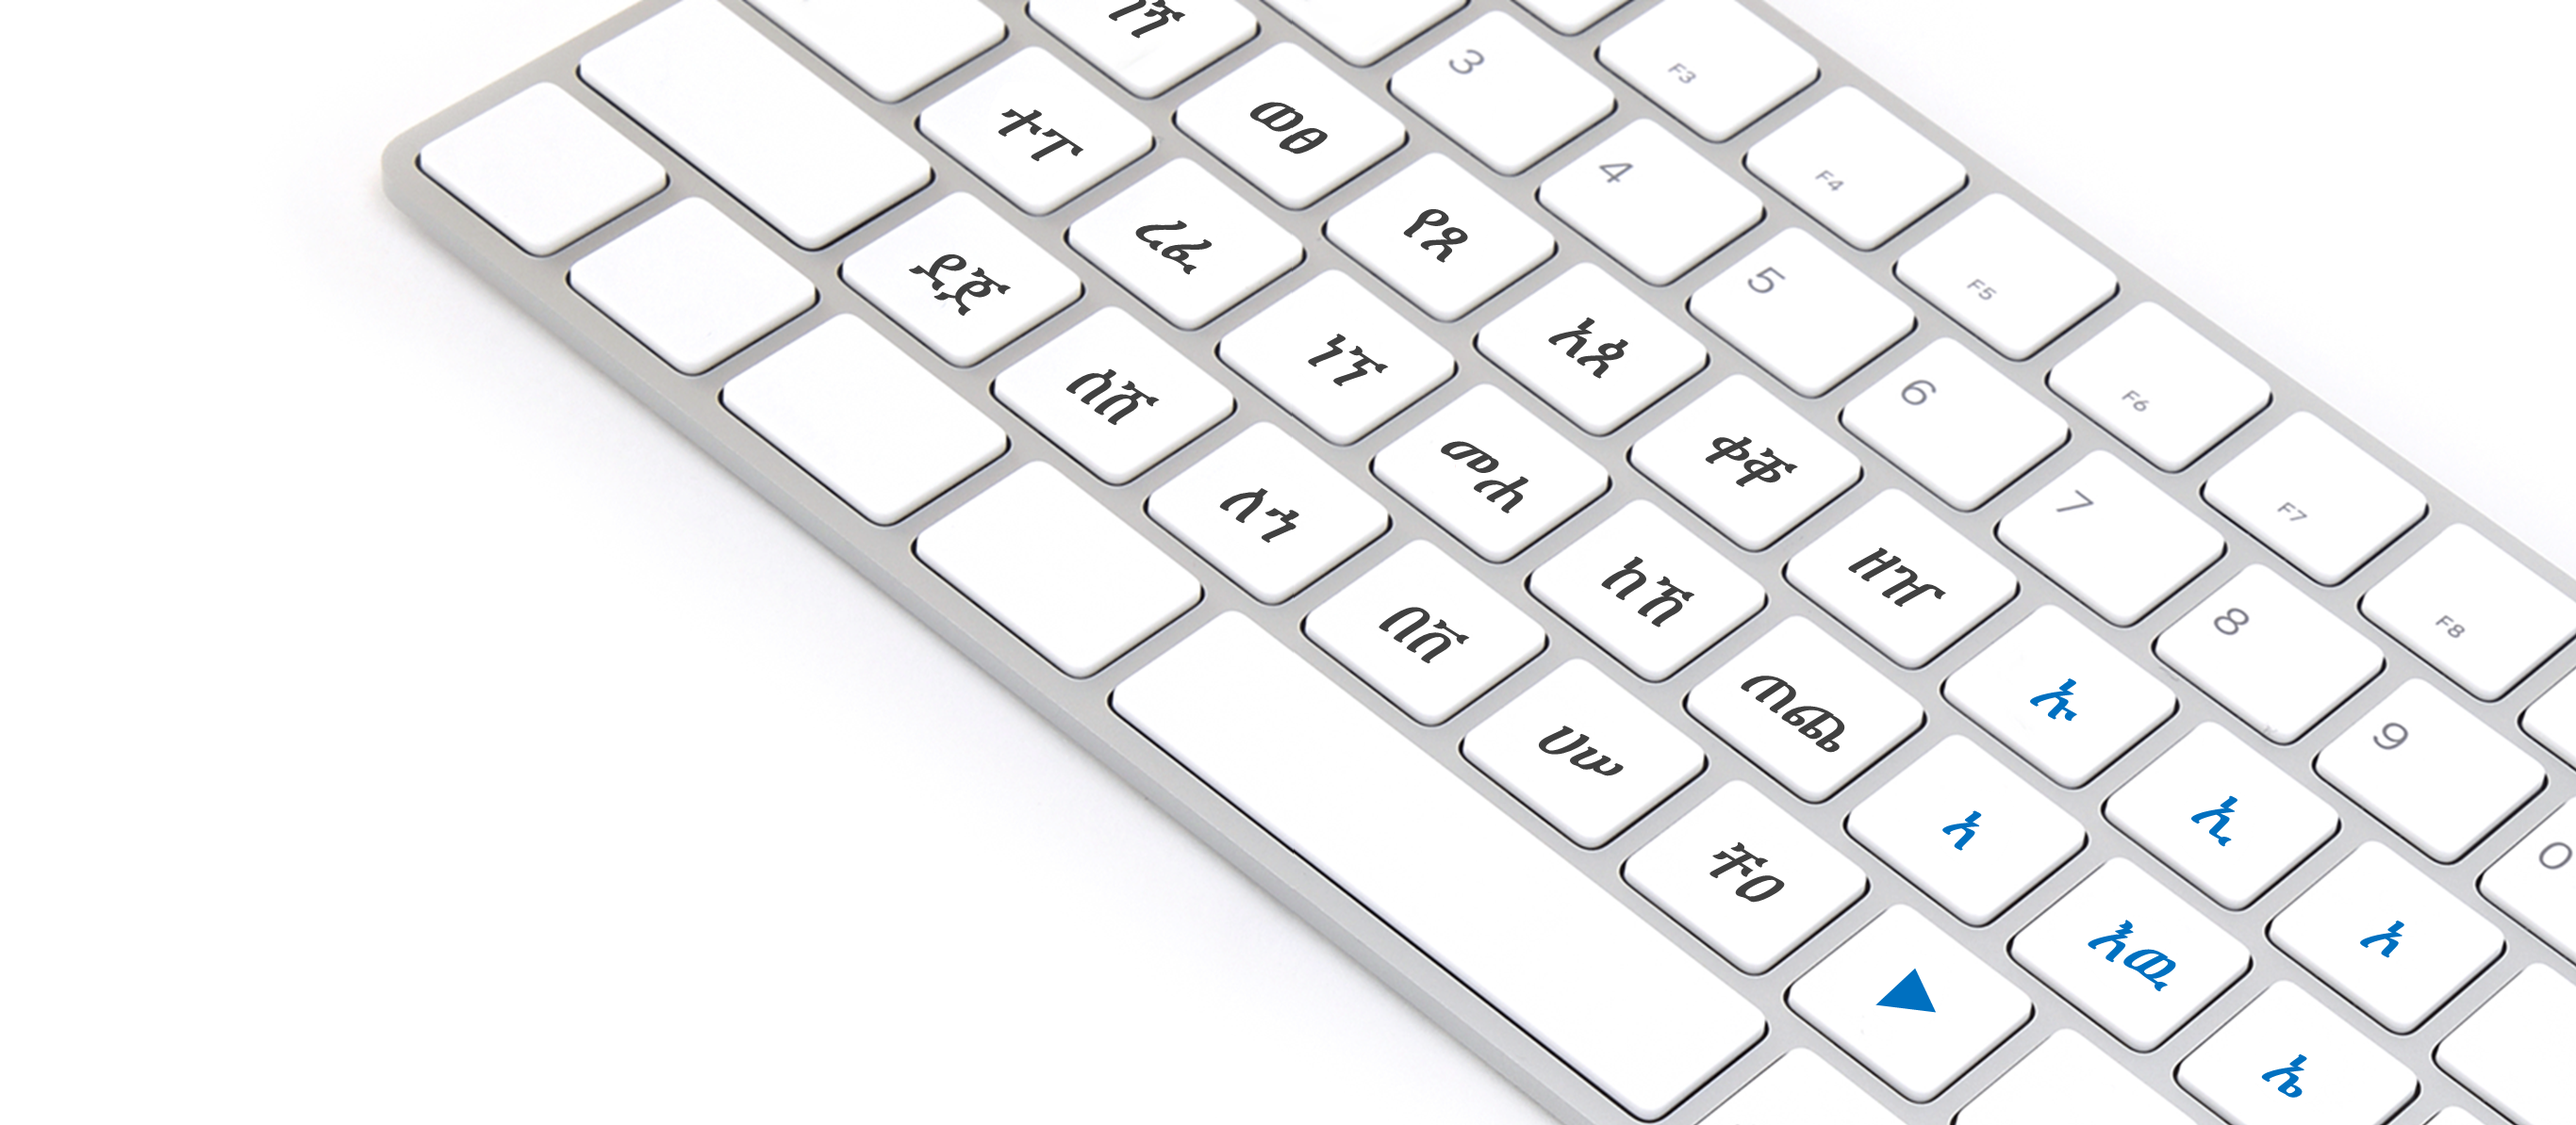
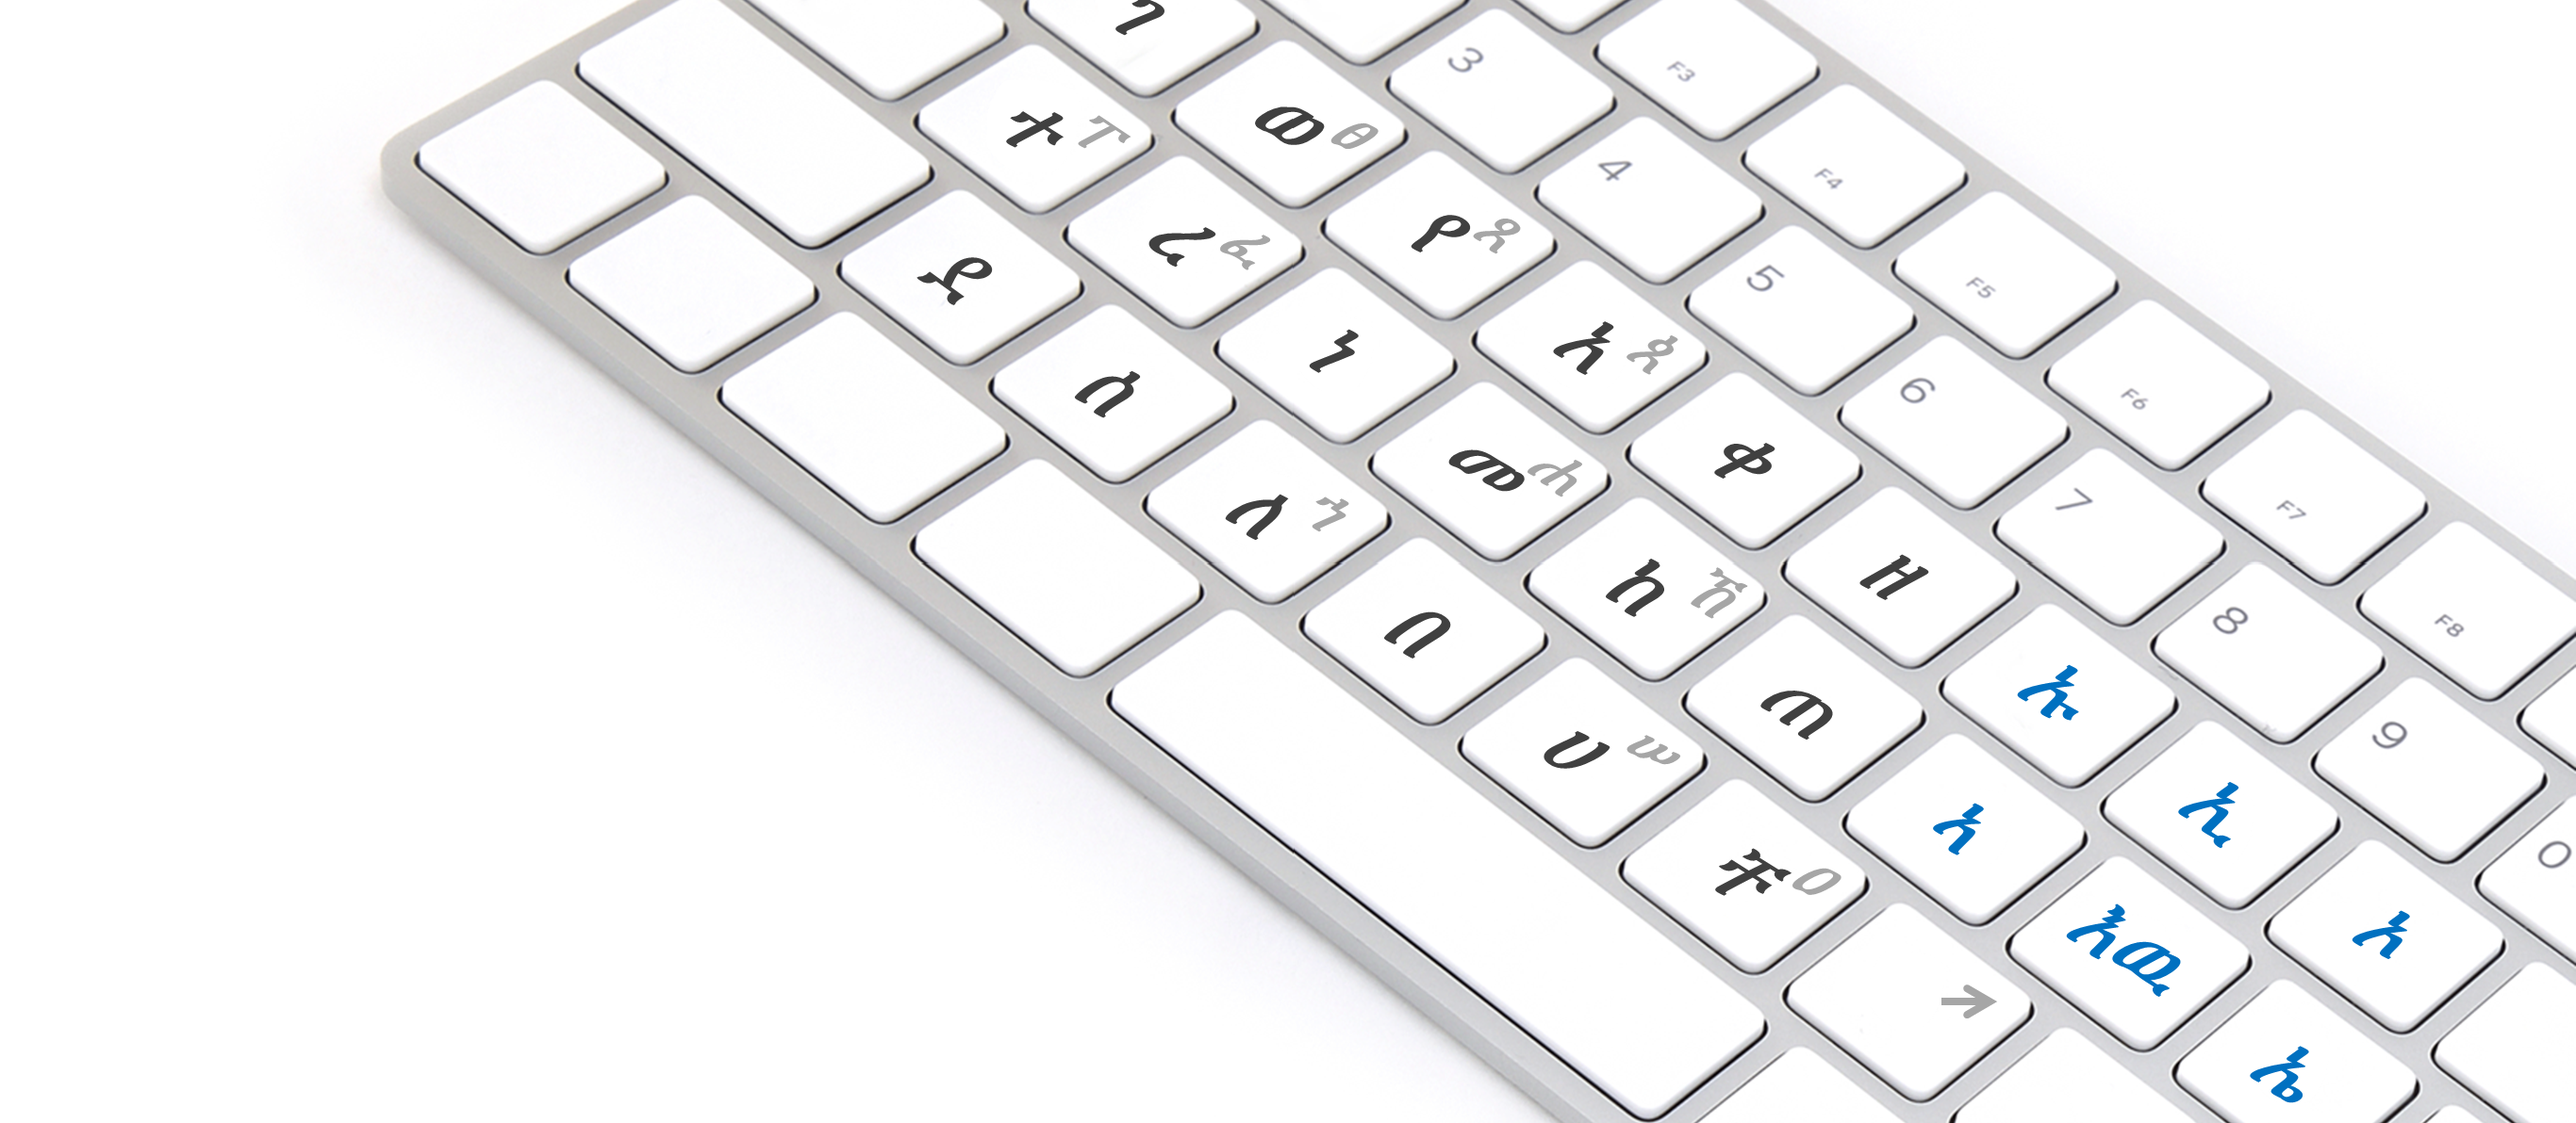
Add files via upload

diff --git a/mobile_demo.html b/mobile_demo.html
@@ -59,6 +59,23 @@
 }
 
  
+
+  /* === Vowel/Next bigger, K slightly smaller to fit two glyphs === */
+  :root{
+    --vowel-size: 24px;    /* increase if you want even bigger */
+    --k-scale: 1;       /* K shows two glyphs; keep a bit smaller */
+	--vowel-x: 0px; --vowel-y: 6px;
+  }
+  .vowel .lbl{ 
+    font-size: var(--vowel-size);
+	transform: translate(var(--vowel-x), var(--vowel-y));
+  }
+  .key[data-role="k"] .lbl{
+    font-size: calc(var(--vowel-size) * var(--k-scale));
+    letter-spacing: 0.5px;
+    font-weight: 800;
+  }
+
 </style>
 </head>
 <body>
@@ -84,12 +101,12 @@
   <div class="frame" id="kb">
     <!-- 1행: (라벨은 참고용) -->
     <div class="row row1">
-      <button class="key"><span class="lbl">ገጘ</span></button>
-      <button class="key"><span class="lbl">ወፀ</span></button>
-      <button class="key"><span class="lbl">የጸ</span></button>
-      <button class="key"><span class="lbl">አጰ</span></button>
-      <button class="key"><span class="lbl">ቀቐ</span></button>
-      <button class="key"><span class="lbl">ዘዠ</span></button>
+      <button class="key noLabel"><span class="lbl">ገጘ</span></button>
+      <button class="key noLabel"><span class="lbl">ወፀ</span></button>
+      <button class="key noLabel"><span class="lbl">የጸ</span></button>
+      <button class="key noLabel"><span class="lbl">አጰ</span></button>
+      <button class="key noLabel"><span class="lbl">ቀቐ</span></button>
+      <button class="key noLabel"><span class="lbl">ዘዠ</span></button>
       <button class="key vowel" data-vowel="U"><span class="lbl">ኡ</span></button>
       <button class="key vowel" data-vowel="I"><span class="lbl">ኢ</span></button>
       <button class="key vowel" data-vowel="O"><span class="lbl">ኦ</span></button>
@@ -97,12 +114,12 @@
 
     <!-- 2행 -->
     <div class="row row2">
-      <button class="key"><span class="lbl">ተፐ</span></button>
-      <button class="key"><span class="lbl">ረፈ</span></button>
-      <button class="key"><span class="lbl">ነኘ</span></button>
-      <button class="key"><span class="lbl">መሐ</span></button>
-      <button class="key"><span class="lbl">ከኸ</span></button>
-      <button class="key"><span class="lbl">ጠጨ</span></button>
+      <button class="key noLabel"><span class="lbl">ተፐ</span></button>
+      <button class="key noLabel"><span class="lbl">ረፈ</span></button>
+      <button class="key noLabel"><span class="lbl">ነኘ</span></button>
+      <button class="key noLabel"><span class="lbl">መሐ</span></button>
+      <button class="key noLabel"><span class="lbl">ከኸ</span></button>
+      <button class="key noLabel"><span class="lbl">ጠጨ</span></button>
       <button class="key vowel" data-vowel="J"><span class="lbl">ኣ</span></button>
       <button class="key vowel" data-role="k"><span class="lbl">እዉ</span></button>
       <button class="key vowel" data-vowel="L"><span class="lbl">ኤ</span></button>
@@ -110,12 +127,12 @@
 
     <!-- 3행 -->
     <div class="row row3">
-      <button class="key"><span class="lbl">ደጀ</span></button>
-      <button class="key"><span class="lbl">ሰሸ</span></button>
-      <button class="key"><span class="lbl">ለኀ</span></button>
-      <button class="key"><span class="lbl">በቨ</span></button>
-      <button class="key"><span class="lbl">ሀሠ</span></button>
-      <button class="key"><span class="lbl">ቸዐ</span></button>
+      <button class="key noLabel"><span class="lbl">ደጀ</span></button>
+      <button class="key noLabel"><span class="lbl">ሰሸ</span></button>
+      <button class="key noLabel"><span class="lbl">ለኀ</span></button>
+      <button class="key noLabel"><span class="lbl">በቨ</span></button>
+      <button class="key noLabel"><span class="lbl">ሀሠ</span></button>
+      <button class="key noLabel"><span class="lbl">ቸዐ</span></button>
       <div class="doubleSlot">
         <button class="key vowel ghost" data-role="next"><span class="lbl"></span></button>
         <button class="key ghost" data-role="backspace"><span class="lbl"></span></button>
@@ -287,7 +304,7 @@ kb.addEventListener('click',(e)=>{
     if (!el) return;
     defaults[sel] = el.textContent || fallback || '';
   }
-  cacheDefault('[data-role="next"] .lbl', '▶');
+  cacheDefault('[data-role="next"] .lbl', '');
   cacheDefault('[data-role="k"] .lbl', 'K');
   ['U','I','O','J','L'].forEach(ch => cacheDefault(`[data-vowel="${ch}"] .lbl`, ch));
 
@@ -352,7 +369,7 @@ kb.addEventListener('click',(e)=>{
   }
 
   function resetPreviewsToDefault(){
-    setText('[data-role="next"] .lbl', defaults['[data-role="next"] .lbl'] || '▶', true);
+    setText('[data-role="next"] .lbl', defaults['[data-role="next"] .lbl'] || '', true);
     setText('[data-role="k"] .lbl', defaults['[data-role="k"] .lbl'] || 'K');
     ['U','I','O','J','L'].forEach(ch=>{
       const sel = `[data-vowel="${ch}"] .lbl`;
@@ -369,7 +386,7 @@ kb.addEventListener('click',(e)=>{
     }
     // NEXT
     const next = nextOf(lastEth);
-    setText('[data-role="next"] .lbl', next || '▶', true);
+    setText('[data-role="next"] .lbl', next || '', true);
     // K
     setText('[data-role="k"] .lbl', kPreview(lastEth));
     // Vowels
